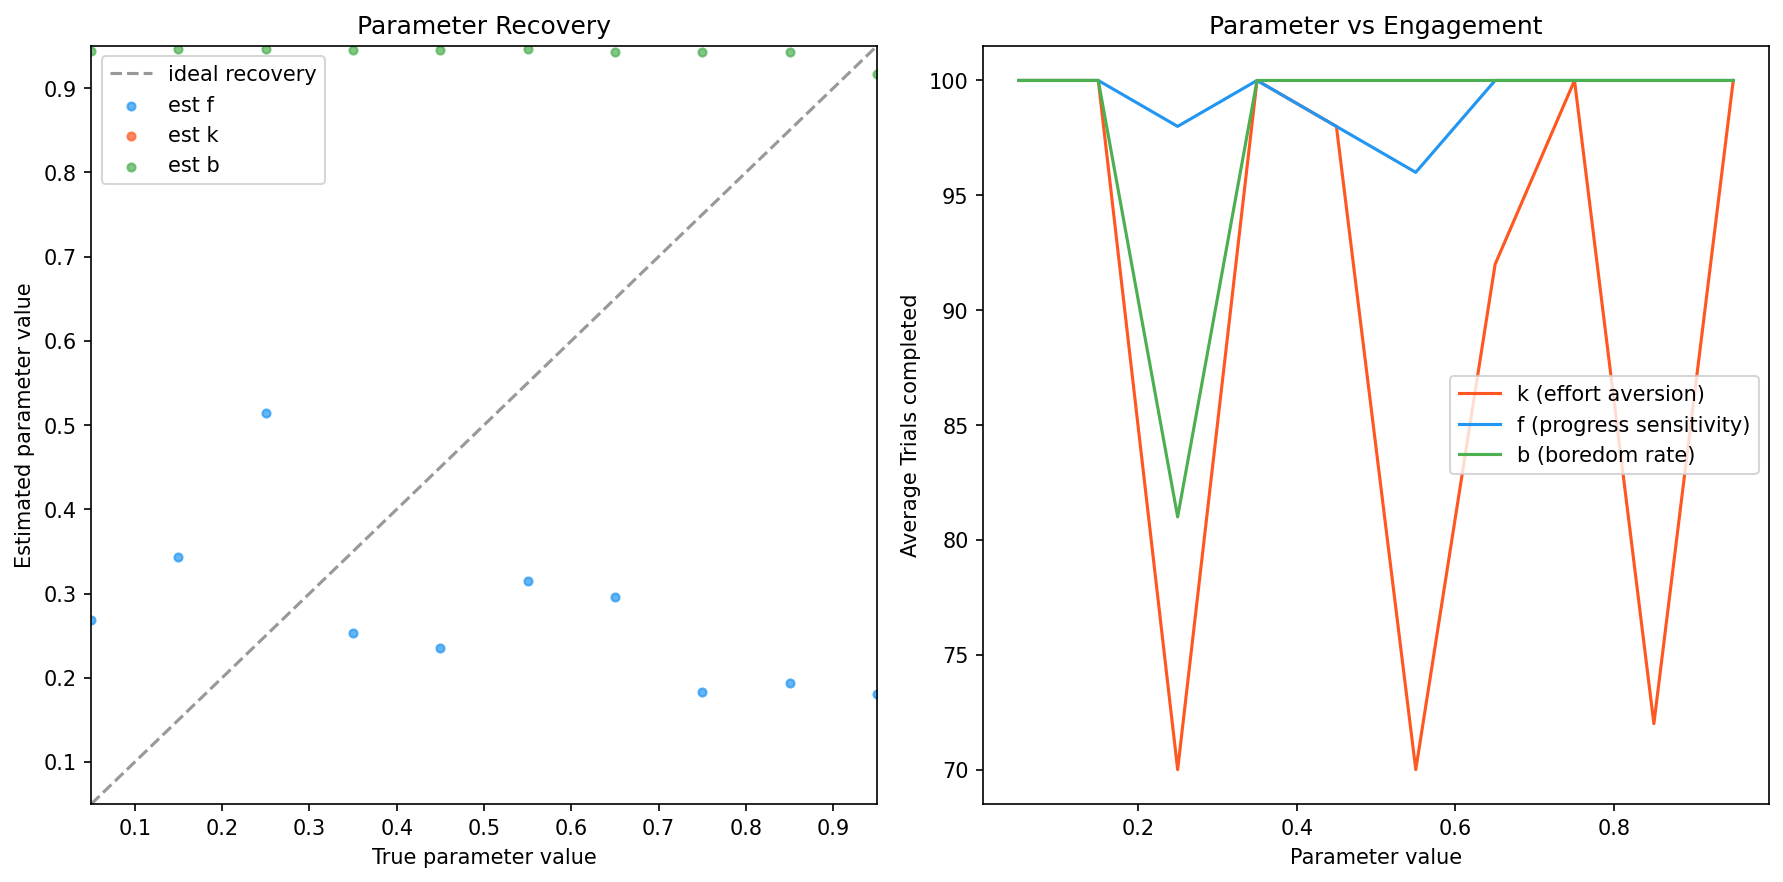
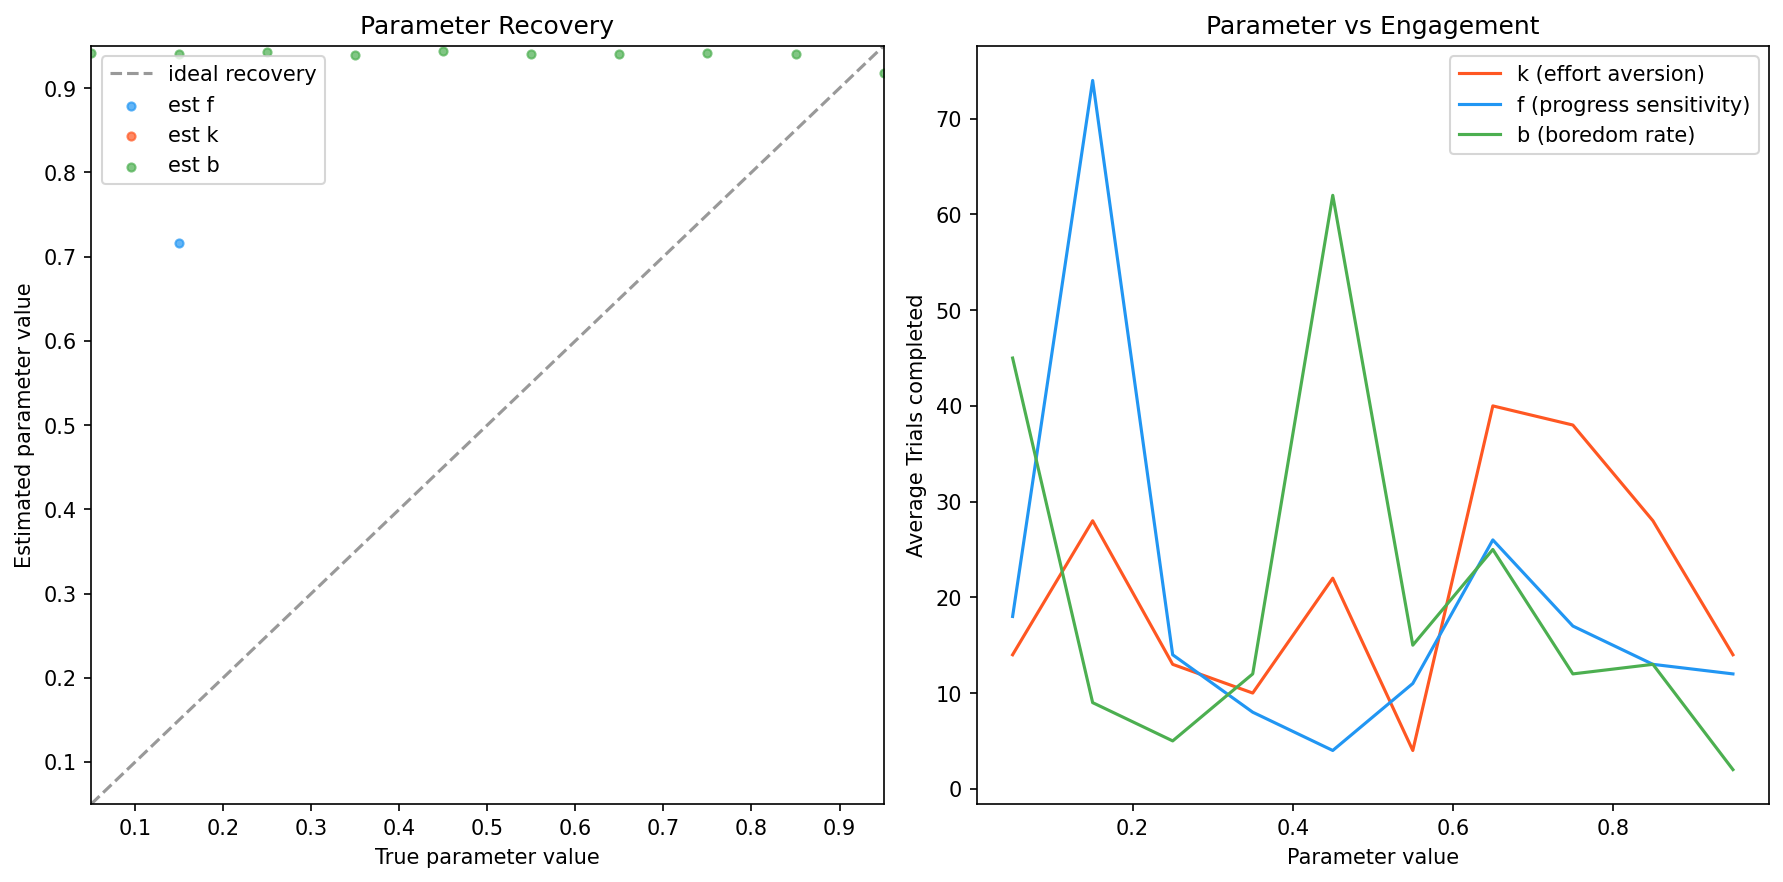
small improvements

diff --git a/temporal_difference_model.py b/temporal_difference_model.py
@@ -1,6 +1,6 @@
 from config import (
     ModelState, UserParams, V, phi, sigmoid, get_sigma,
-    stage_amt, diff, a, g, param_values, np, pd,
+    config, np,
 )
 from ddm import ddm, effective_delta
 import random
@@ -8,36 +8,25 @@ import random
 
 def value_of_stage(state: ModelState, s, pers_param): 
     V_s = V(state.theta, s)
-    if s == stage_amt - 1:
+    if s == config.stage_amt - 1:
         sigma = get_sigma(state)
         reward_divergence = random.gauss(0, sigma)
-        r = sigmoid(5 * (state.skill - diff)) + reward_divergence
+        r = sigmoid(5 * (state.skill - config.diff)) + reward_divergence
         r = max(0, min(1, r))
         V_next = 0.0
     else:
         r, V_next = 0.0, V(state.theta, s + 1)
 
-    delta = r + g * V_next - V_s
-    state.theta = state.theta + a * delta * phi(s)
+    delta = r + config.g * V_next - V_s
+    state.theta = state.theta + config.a * delta * phi(s)
     model_solved, dt, model = ddm.modelsolve(
         delta, s, state, pers_param.f, pers_param.k, pers_param.b
     )
-    disengaged = False if model_solved.pdf("correct")[-1] < random.random() else True
+    disengaged = False if model_solved.prob('correct') < random.random() else True
 
-    state.stage_log.append(
-        {
-            "trial": state.t,
-            "stage": s,
-            "dt": dt,
-            "delta": delta,
-            "V": V_s,
-        }
-    )
 
-    learning_gain = (
-        max(0, delta) * (1.0 - state.skill)
-    )  # skill grows with practice but saturates. This might be changed based on what makes sense for skill improvment
-    state.skill += min(learning_gain / stage_amt, 1)
+    learning_gain = (max(0, delta) * (1.0 - state.skill))  # skill grows with practice but saturates. This might be changed based on what makes sense for skill improvment
+    state.skill += min(learning_gain / config.stage_amt, 1)
     if not disengaged:
         return delta, disengaged, dt
     else:
@@ -45,11 +34,13 @@ def value_of_stage(state: ModelState, s, pers_param):
 
 
 def simulate(state: ModelState, pers_param):
-    for s in range(stage_amt):
+    for s in range(config.stage_amt):
         state.rpe[s], disengaged, dt, *model = value_of_stage(state, s, pers_param)
-        state.first_passage.loc[
-            len(state.first_passage), ["Disengagment", "Engaged T", "delta"]
-        ] = [disengaged, dt, round(effective_delta(state.rpe[s], state, s), 2)]
+        state.first_passage.append({
+        "Disengagment": disengaged,
+        "Engaged T": dt,
+        "delta": round(effective_delta(state.rpe[s], s), 2),
+        })
         if disengaged:
             break
     return False if not disengaged else True, model
@@ -57,7 +48,8 @@ def simulate(state: ModelState, pers_param):
 
 def train(state: ModelState, pers_param):
     low_rpe_streak = 0
-    while True:
+    disengaged = False
+    while not disengaged:
         disengaged, *model = simulate(state, pers_param)
 
         max_rpe = max(abs(x) for x in state.rpe.values())
@@ -67,11 +59,11 @@ def train(state: ModelState, pers_param):
         else:
             low_rpe_streak = 0
 
-        average_v = sum(V(state.theta, s) for s in range(stage_amt)) / stage_amt
+        average_v = sum(V(state.theta, s) for s in range(config.stage_amt)) / config.stage_amt
 
         state.t += 1
 
-        if (low_rpe_streak >= 10 and average_v > 0.1) or state.t >= 100:
+        if (low_rpe_streak >= config.stage_amt and average_v > 0.1) or state.t >= 100:
             return model
 
 
@@ -86,14 +78,12 @@ def test_train(true_f=None, true_k=None, true_b=None, debug=False, extra=0, repe
 
     fixed = UserParams(f=true_f, k=true_k, b=true_b)
     n_particles = 100
-    cols = ["Disengagment", "Engaged T", "delta"]
     state = ModelState(
-        theta=np.zeros(len(param_values) + 1),
+        theta=np.zeros(len(config.param_values) + 1),
         t=1,
         weights=np.ones(n_particles) / n_particles,
         particle_matrix=np.random.uniform(0.05, 1.0, size=(3, n_particles)),
         skill=0.1,
-        first_passage=pd.DataFrame(columns=cols),
     )
 
     for i in range(repeat):
@@ -110,12 +100,13 @@ def test_train(true_f=None, true_k=None, true_b=None, debug=False, extra=0, repe
     est_b = repeats[repeat - 1]["b"]
     if debug:
         print(f"stopped after {state.t} trials")
-        print("V:", [round(V(state.theta, s), 3) for s in range(stage_amt)])
-        print("RPE:", [round(state.rpe[s], 3) for s in range(stage_amt)])
+        print("V:", [round(V(state.theta, s), 3) for s in range(config.stage_amt)])
+        print("RPE:", [round(state.rpe[s], 3) for s in range(config.stage_amt)])
         print("Estimated f:", est_f)
         print("Estimated k:", est_k)
         print("Estimated b:", est_b)
         print("True params:", fixed)
+        
 
     if not extra:
         return {
@@ -127,8 +118,5 @@ def test_train(true_f=None, true_k=None, true_b=None, debug=False, extra=0, repe
             "est_b": est_b,
             "trials": state.t,
         }
-    elif extra == 1:
-        log = state.stage_log
-        return fixed, log, state.t
     elif extra == 2:
         return repeats

diff --git a/ddm.py b/ddm.py
@@ -1,4 +1,5 @@
-from config import ModelState, np, stage_amt, drift_rate
+from config import ModelState, np, config, drift_rate
+import pandas as pd
 import logging
 import pyddm
 
@@ -7,23 +8,19 @@ logging.getLogger("pyddm").setLevel(logging.WARNING)
 pyddm.set_N_cpus(4)
 
 
-def effective_delta(delta, state: ModelState, s, decay_rate=0.3):
-    if state.t > 1:
-        idx = (state.t - 1) * abs(stage_amt - 1)
-        if idx < len(state.stage_log):
-            return state.stage_log[idx]["delta"] * np.exp(-decay_rate * s)
-    return delta
+def effective_delta(delta, s, decay_rate=0.3):
+    return delta * np.exp(-decay_rate * s)
 
 
 class ddm:
     def modelsolve(delta, s, state: ModelState, f_val, k_val, b_val):
-        dt = 1 / stage_amt
-        eff_delta = effective_delta(delta, state, s)
+        dt = 1 / config.stage_amt
+        eff_delta = effective_delta(delta, s)
         model = pyddm.gddm(
             drift=drift_rate,
             noise=0.5,
             bound=lambda b_val: (1 - b_val) * 5,
-            starting_position=lambda k_val: k_val * stage_amt / 10,
+            starting_position=lambda k_val: k_val * config.stage_amt / 10,
             T_dur=dt,
             parameters={"f_val": f_val, "k_val": k_val, "b_val": b_val},
             conditions=["delta"],
@@ -32,19 +29,18 @@ class ddm:
         return sol, dt, model
 
     def sample_pandas(self, state):
-        df = state.first_passage.copy()
+        df = pd.DataFrame(state.first_passage)
         df["Disengagment"] = df["Disengagment"].astype(int)
-        return pyddm.Sample.from_pandas_dataframe(
-            df, rt_column_name="Engaged T", choice_column_name="Disengagment"
-        )
+        return pyddm.Sample.from_pandas_dataframe(df, rt_column_name="Engaged T", choice_column_name="Disengagment")
+        
 
     def fit(self, state: ModelState):
         model_to_fit = pyddm.gddm(
             drift=drift_rate,
             noise=0.5,
             bound=lambda b_val: (1 - b_val) * 5,
-            starting_position=lambda k_val: k_val * stage_amt / 10,
-            T_dur=(1.0 / stage_amt) + 1.0,
+            starting_position=lambda k_val: k_val * config.stage_amt / 10,
+            T_dur=(1.0 / config.stage_amt) + 1.0,
             parameters={"f_val": (0, 1), "k_val": (0, 1), "b_val": (0, 1)},
             conditions=["delta"],
         )

diff --git a/config.py b/config.py
@@ -1,19 +1,25 @@
 from dataclasses import dataclass, field
 import numpy as np
 import math
-import pandas as pd
 
-g = 0.9
-a = 0.05
 
-# task parameters (model tweaks):
-stage_amt = 4  # How many stages there are until reward
-diff = 0.1  # The difficulty of each stage; will not be changed yet until ready for infererence
+@dataclass(frozen=True)
+class Config:
+    g: float = 0.9  # discount factor
+    a: float = 0.05  # learning rate
+    # task parameters (model tweaks):
+    stage_amt: int = 4  # How many stages there are until reward
+    diff: float = 0.1  # The difficulty of each stage; will not be changed yet until ready for inference
 
-param_values = {
-    "bias": 1,
-    "d": diff,
-}
+    @property
+    def param_values(self) -> dict:
+        return {
+            "bias": 1,
+            "d": self.diff,
+        }
+
+
+config = Config()
 
 
 @dataclass
@@ -30,14 +36,12 @@ class ModelState:
     weights: np.ndarray
     skill: float  # initial preformance that will scale
     particle_matrix: np.ndarray
-    first_passage: pd.DataFrame
-    stage_log: list = field(default_factory=list)
-    episode_log: list = field(default_factory=list)
-    rpe: dict = field(default_factory=lambda: {r: 0 for r in range(stage_amt)})
+    first_passage: list = field(default_factory=list)
+    rpe: dict = field(default_factory=lambda: {r: 0 for r in range(config.stage_amt)})
 
 
 def get_sigma(state: ModelState, base_sigma=0.02, scaling_factor=0.3):
-    raw_sigma = base_sigma + diff * scaling_factor + 0.1
+    raw_sigma = base_sigma + config.diff * scaling_factor + 0.1
     sigma = raw_sigma / math.sqrt(state.skill) if state.skill != 0 else raw_sigma
     return sigma
 
@@ -49,8 +53,8 @@ def sigmoid(z):
 
 
 def phi(s: int):
-    d = diff
-    s_norm = s / (stage_amt - 1)
+    d = config.diff
+    s_norm = s / (config.stage_amt - 1)
     return np.array([1.0, d, s_norm])
 
 
